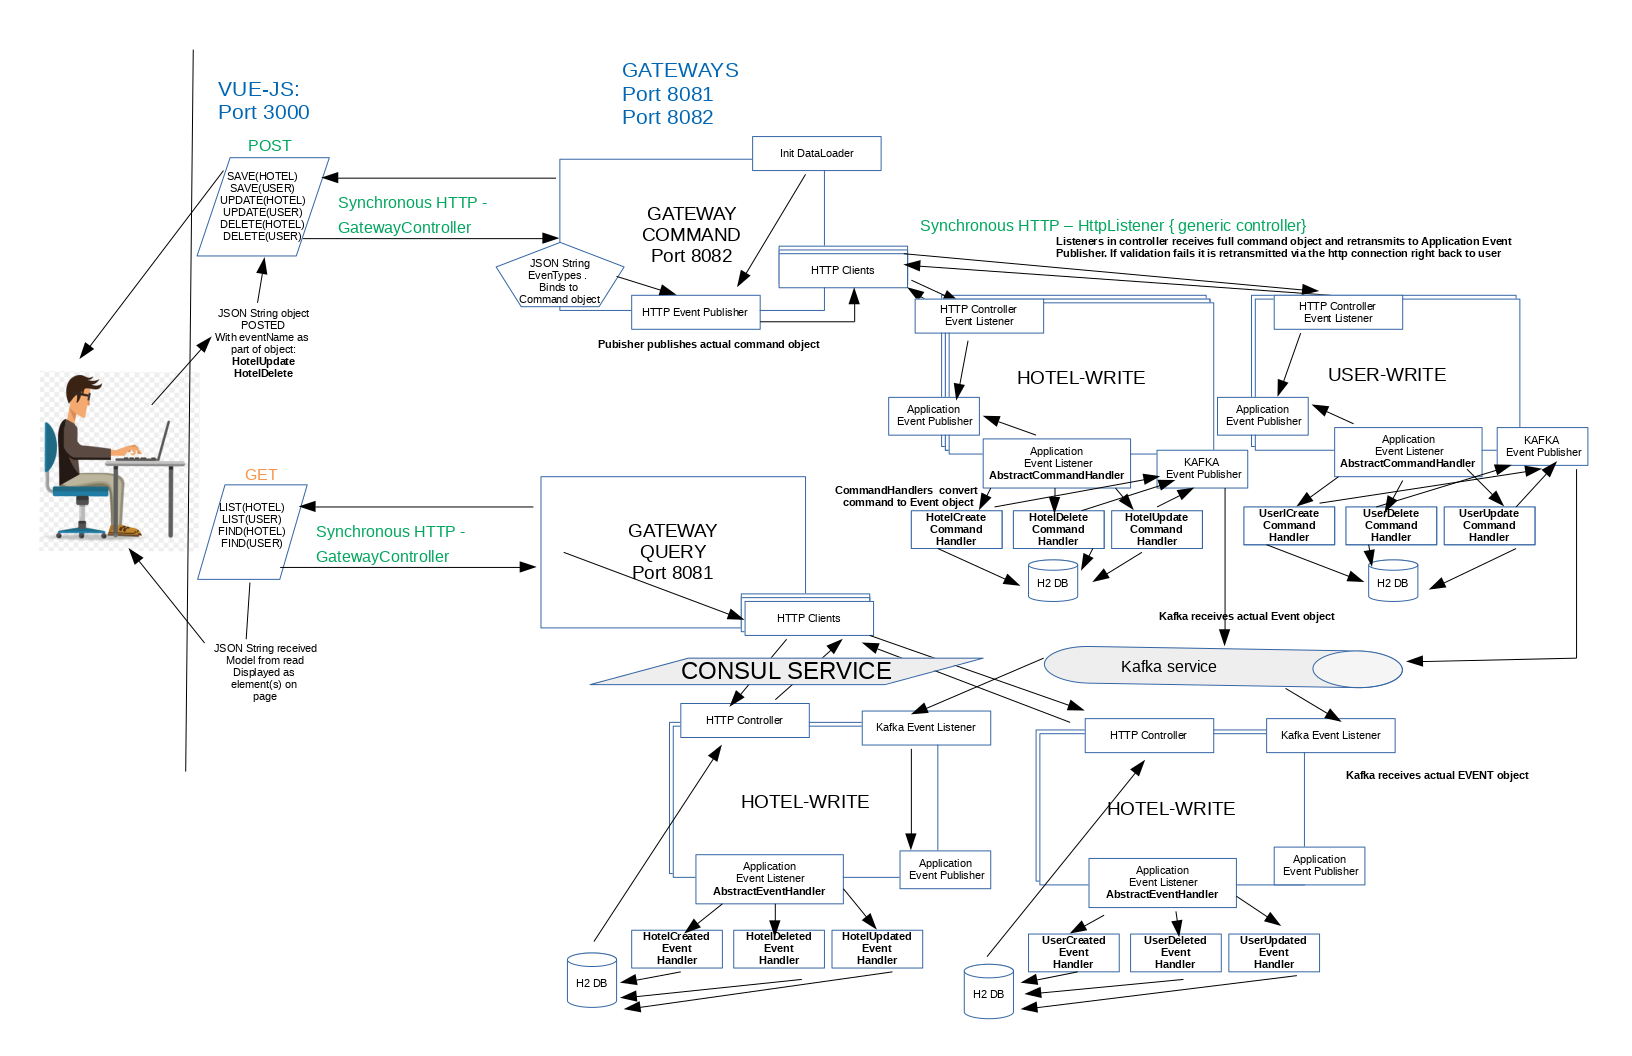
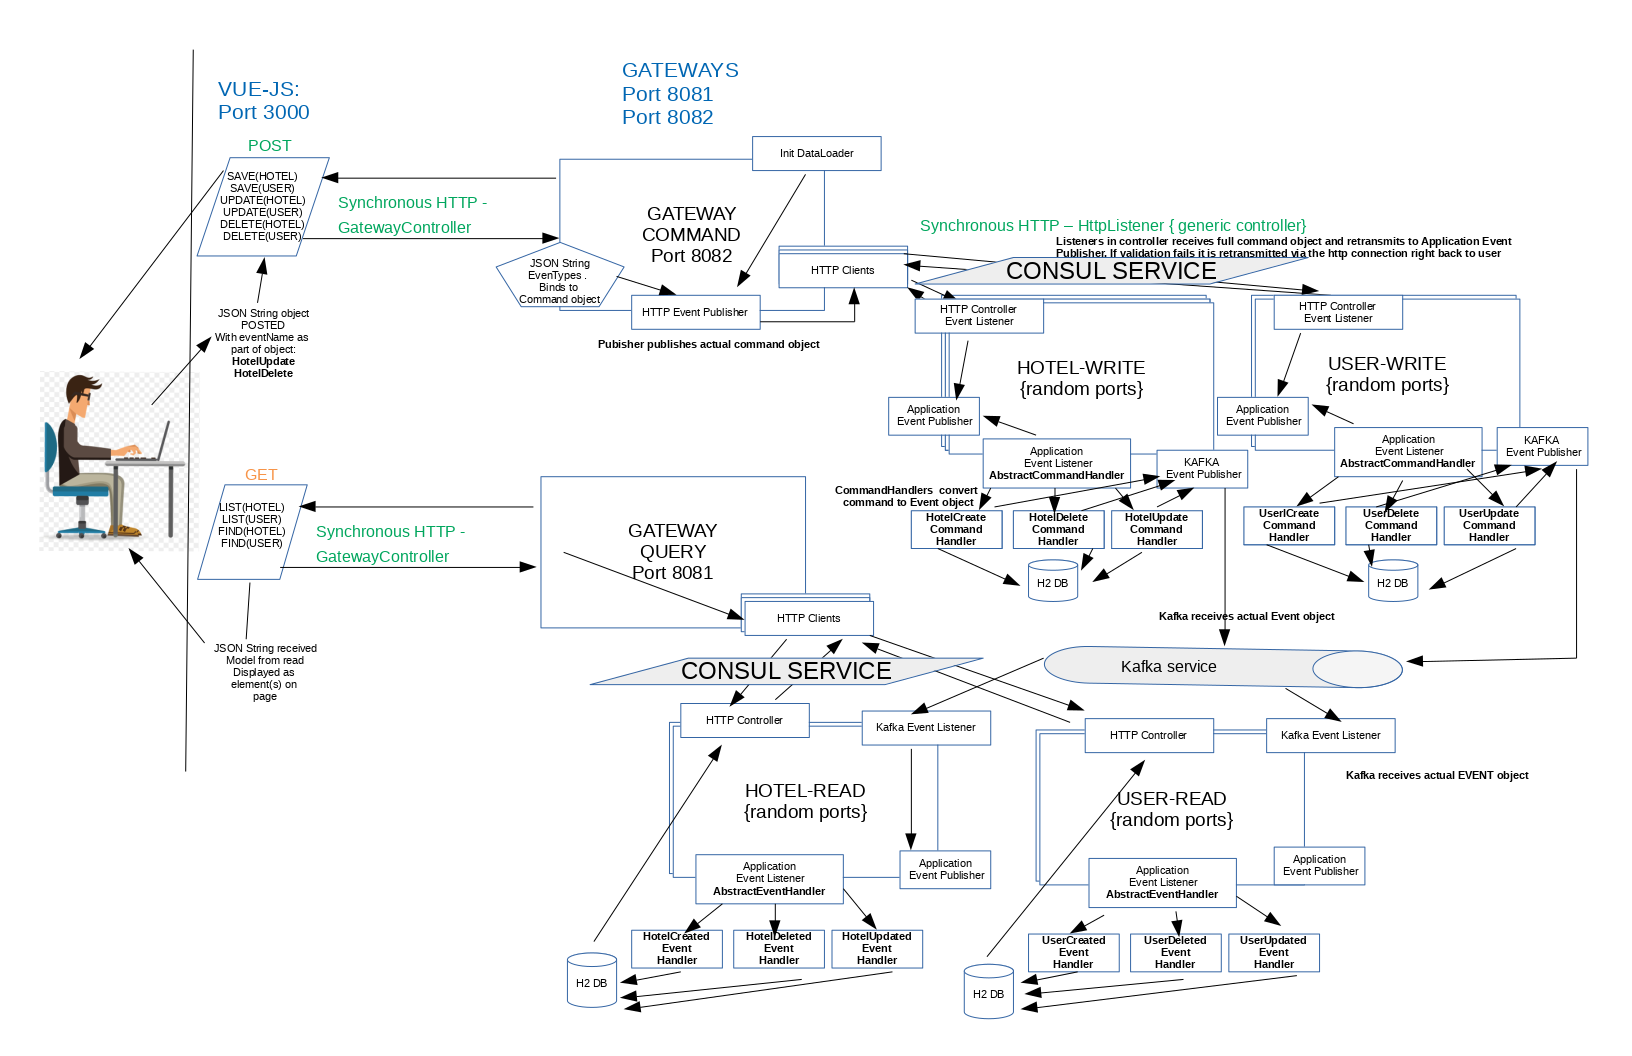
updated diagram new final video

diff --git a/README.md b/README.md
@@ -3,7 +3,10 @@ Micronaut backend vuejs frontend application - CQRS
 
 
 
-###### Youtube [Video demonstrating product](https://www.youtube.com/watch?v=-pKr6Zg-MtA). Written [description available here](https://github.com/vahidhedayati/micronaut-vuejs-cqrs/blob/master/detailedDescription.md).
+###### Youtube [Video demonstrating product part 2 - Latest as per diagram](https://www.youtube.com/watch?v=SB2JP6aF5Fs). Written [description available here](https://github.com/vahidhedayati/micronaut-vuejs-cqrs/blob/master/detailedDescription.md).
+
+###### Youtube [Video demonstrating product part 1 - older video](https://www.youtube.com/watch?v=-pKr6Zg-MtA). Relates to [websocket-1 branch git clone https://github.com/vahidhedayati/micronaut-vuejs-cqrs -b websocket-v1](https://github.com/vahidhedayati/micronaut-vuejs-cqrs/tree/websocket-v1) and [websocket-2 branch git clone https://github.com/vahidhedayati/micronaut-vuejs-cqrs -b websocket-v2](https://github.com/vahidhedayati/micronaut-vuejs-cqrs/tree/websocket-v2)
+
 
 ![how this app works](https://raw.githubusercontent.com/vahidhedayati/micronaut-vuejs-cqrs/master/docs/eventstoreCQRS-latest.png)
 
